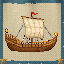
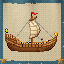
Retake the boat pictures with the new sails

Changed region(s): [[0.25, 0.25, 0.8125, 0.6562], [0.8125, 0.5938, 0.8438, 0.625], [0.7188, 0.6875, 0.75, 0.7188]]

diff --git a/tools/art/turn_sails.py b/tools/art/turn_sails.py
@@ -1,14 +1,16 @@
-"""Turns a sailing boat's square sail from facing us to set across the hull, as a sail running before the wind is.
-Seen from the side it is turned well away from us: a narrow sheet hanging from a short yard angled towards the bow, its
-belly filled and bulging out towards the bow, the way the boat goes. The old sail, its yards and the ropes tied to them
-are cleared from the boat's picture as make_props.py and round_keels.py left it (kept in props_raw as
-<boat>_square_sail.png the first time), keeping the hull, the mast and its flag, and the new sail is drawn pixel by
-pixel in the old sail's own colours: the cloth shaded by how it faces the light from the upper left, its reinforcing
-bands following the curve of the cloth, the yard in the old yard's colours and the ropes drawn again to the masthead,
-the yard and the sail's lower corners. A flag painted streaming aft is turned round its masthead to stream towards the
-bow, as the wind behind the sail blows it. Prints the sail's corners for boats.json, the box the sail shader moves. Writes
-the boats to game/assets/art/props/; running it again gives the same pictures.
-Usage: python tools/art/turn_sails.py [--out DIR] [BOAT...]"""
+"""Turns a sailing boat's square sail from facing us to set across the hull, as a sail running before the wind is. Seen
+from the side it is turned well away from us: a narrow sheet hanging from a short yard angled towards the bow, its belly
+filled and bulging out towards the bow, the way the boat goes. The old sail, its yards and the ropes tied to them are
+cleared from the boat's picture as make_props.py and round_keels.py left it (kept in props_raw as <boat>_square_sail.png
+the first time), keeping the hull, the mast and its flag, and the new sail is drawn pixel by pixel in the old sail's own
+colours: the cloth shaded by how it faces the light from the upper left, its reinforcing bands following the curve of
+the cloth, the yard in the old yard's colours and the ropes drawn again to the masthead, the yard and the sail's lower
+corners. A flag painted streaming aft is turned round its masthead to stream towards the bow, as the wind behind the
+sail blows it. Prints the sail's corners for boats.json, the box the sail shader moves. Writes the boats to
+game/assets/art/props/; running it again gives the same pictures. With --icons it turns the two boats' achievement
+icons, painted small in tools/art/achievements_raw/ (their originals kept there as <boat>_square_sail.png), in the same
+way at their own size, for make_achievement_icons.py.
+Usage: python tools/art/turn_sails.py [--icons] [--out DIR] [BOAT...]"""
 import math
 import shutil
 import sys
@@ -19,6 +21,7 @@ from PIL import Image, ImageDraw
 
 ROOT = Path(__file__).resolve().parents[2]
 RAW = Path(__file__).with_name("props_raw")
+ICON_RAW = Path(__file__).with_name("achievements_raw")
 PROPS = ROOT / "game" / "assets" / "art" / "props"
 # The light, from the upper left and in front: x towards the bow, y up, z towards us.
 LIGHT = np.array([-0.62, 0.55, 0.56])
@@ -27,13 +30,14 @@ SS = 4
 
 # Per boat, from its old sail's own pixels: the cloth from lit to shaded, its bands and edges from light to dark, the
 # yard from its top row down and its ends, and a rope's shades, a rope `wide` being drawn three pixels across, dark,
-# light and dark. Then the mast's columns, the rows of it drawn again in the colours of a row it shows bare (`mast_rows`:
-# the first and the bare one), and the row its yard crosses it; the sail's width and height as if laid flat, how far it
-# is turned from pointing straight at us, how much lower its near end sits for every pixel nearer us, and how deep its
-# belly is; the cells of its bands across and down. What is cleared: either every column down to its solid run up from
-# the keel, with the boxes in `keep` kept, or the polygons in `clear` and the ropes inside the boxes in `clear_ropes`.
-# Last the ropes, each from a pixel of the hull to a point on the mast, a yardarm or a lower corner of the sail, and a
-# flag to turn round: its top and bottom rows and the first and last columns of the masthead it flies from.
+# light and dark. Then the mast's columns, the rows of it drawn again in the colours of a row it shows bare
+# (`mast_rows`: the first and the bare one), and the row its yard crosses it; the sail's width and height as if laid
+# flat, how far it is turned from pointing straight at us, how much lower its near end sits for every pixel nearer us,
+# and how deep its belly is; the cells of its bands across and down. What is cleared: either every column down to its
+# solid run up from the keel, with the boxes in `keep` kept, or the polygons in `clear` and the ropes inside the boxes
+# in `clear_ropes`. Last the ropes, each from a pixel of the hull to a point on the mast, a yardarm or a lower corner of
+# the sail, and a flag to turn round: its top and bottom rows and the first and last columns of the masthead it flies
+# from.
 BOATS = {
     "sailing_boat": {
         "cloth": [(238, 219, 192), (231, 209, 177), (221, 199, 162), (213, 190, 152), (205, 180, 142),
@@ -61,6 +65,37 @@ BOATS = {
         "ropes": [((41, 59), "mast", (68, 14)), ((102, 58), "mast", (75, 15)), ((108, 54), "mast", (91, 40)),
                   ((57, 70), "near_clew", None), ((88, 62), "far_clew", None)],
         "flag": (0, 4, 70, 73),
+    },
+}
+
+
+# The icons' boats are about half the game's size, so each sail is too, with fewer bands and thinner ropes.
+ICONS = {
+    "sailing_boat": {
+        "cloth": [(229, 199, 157), (224, 193, 149), (214, 179, 135), (203, 166, 121), (192, 153, 110)],
+        "band": [(192, 153, 110), (184, 143, 100), (173, 130, 90), (159, 114, 80), (144, 84, 56)],
+        "yard": [(141, 65, 40), (103, 47, 34)], "yard_end": (81, 37, 28),
+        "rope": [(159, 114, 80), (173, 130, 90)], "wide": False,
+        "mast": (28, 29), "mast_rows": (5, 15), "cross": 9.0,
+        "width": 35.0, "height": 16.0, "turn": 14.0, "tilt": 0.12, "belly": 9.0, "cells": (3, 4),
+        "clear": [[(6, 4), (27, 4), (27, 30), (13, 30), (13, 29), (6, 29)],
+                  [(30, 5), (48, 5), (48, 21), (46, 21), (46, 29), (44, 29), (44, 30), (30, 30)]],
+        "clear_ropes": [],
+        "ropes": [((18, 30), "mast", (27, 5)), ((11, 29), "near_arm", None), ((26, 30), "near_clew", None),
+                  ((38, 30), "far_clew", None)],
+    },
+    "big_boat": {
+        "cloth": [(249, 230, 191), (236, 213, 171), (221, 198, 153), (204, 178, 130), (190, 163, 119)],
+        "band": [(190, 163, 119), (178, 140, 92), (153, 124, 85), (126, 92, 54), (108, 58, 25)],
+        "yard": [(177, 111, 46), (108, 58, 25)], "yard_end": (68, 27, 7),
+        "rope": [(135, 131, 134), (164, 167, 175)], "wide": False,
+        "mast": (28, 29), "mast_rows": (5, 29), "cross": 8.0,
+        "width": 30.0, "height": 16.0, "turn": 14.0, "tilt": 0.12, "belly": 8.0, "cells": (3, 4),
+        "clear": [[(17, 5), (44, 5), (44, 26), (17, 26)], [(19, 27), (27, 27), (27, 30), (19, 30)],
+                  [(30, 27), (37, 27), (37, 30), (30, 30)]],
+        "clear_ropes": [(12, 5, 50, 30)],
+        "ropes": [((14, 24), "mast", (27, 7)), ((48, 25), "mast", (30, 7)), ((25, 30), "near_clew", None),
+                  ((39, 30), "far_clew", None)],
     },
 }
 
@@ -206,11 +241,11 @@ def line(a, b) -> list:
     return pts
 
 
-def turn(boat: str, out_dir: Path) -> dict:
-    spec = BOATS[boat]
-    raw = RAW / f"{boat}_square_sail.png"
+def turn(boat: str, out_dir: Path, icon: bool = False) -> dict:
+    spec, folder = (ICONS[boat], ICON_RAW) if icon else (BOATS[boat], RAW)
+    raw = folder / f"{boat}_square_sail.png"
     if not raw.exists():
-        shutil.copyfile(PROPS / f"{boat}.png", raw)
+        shutil.copyfile((ICON_RAW if icon else PROPS) / f"{boat}.png", raw)
     old = np.array(Image.open(raw).convert("RGBA"))
     h, w = old.shape[:2]
     pic = np.where(kept_part(old, spec)[:, :, None], old, 0).astype(np.uint8)
@@ -333,13 +368,15 @@ def corners(cloth: np.ndarray, near, far, mx: float) -> list:
 
 def main() -> None:
     args = sys.argv[1:]
-    out_dir = PROPS
+    icon = "--icons" in args
+    args = [a for a in args if a != "--icons"]
+    out_dir = ICON_RAW if icon else PROPS
     if "--out" in args:
         i = args.index("--out")
         out_dir = Path(args[i + 1])
         del args[i:i + 2]
     for boat in args or list(BOATS):
-        print(boat, turn(boat, out_dir))
+        print(boat, turn(boat, out_dir, icon))
 
 
 if __name__ == "__main__":

diff --git a/tools/phone/make_store_art.py b/tools/phone/make_store_art.py
@@ -60,7 +60,6 @@ SCENES = {
 }
 PHONE_ORDER = ["the_harbour_at_sunset", "a_dentex_on_the_line", "the_catch_banner", "the_harbour_town",
                "the_pond_at_home", "capri_under_sail", "rain_on_lake_lucrine", "northern_lights_over_the_harbour"]
-TABLET_ORDER = ["the_harbour_at_sunset", "a_dentex_on_the_line", "the_harbour_town", "the_pond_at_home"]
 # An iPad's squarer screen shows deep, empty water under Capri, so the lake in the rain takes its place.
 IPAD_ORDER = ["the_harbour_at_sunset", "a_dentex_on_the_line", "the_harbour_town", "the_pond_at_home",
               "rain_on_lake_lucrine", "northern_lights_over_the_harbour"]
@@ -70,8 +69,8 @@ WIDEST_POND = ["--seed=1", "--pond-fish=5"]
 # folder: (window size, scenes in upload order, extra flags per scene for that screen's shape).
 SETS = {
     PLAY / "phone_screenshots": ((1920, 1080), PHONE_ORDER, {}),
-    PLAY / "tablet_7_inch_screenshots": ((1920, 1080), TABLET_ORDER, {}),
-    PLAY / "tablet_10_inch_screenshots": ((2560, 1440), TABLET_ORDER, {"the_pond_at_home": WIDE_POND}),
+    PLAY / "tablet_7_inch_screenshots": ((1920, 1080), PHONE_ORDER, {}),
+    PLAY / "tablet_10_inch_screenshots": ((2560, 1440), PHONE_ORDER, {"the_pond_at_home": WIDE_POND}),
     APPLE / "iphone_6.9_inch_screenshots": ((2868, 1320), PHONE_ORDER, {"the_pond_at_home": WIDEST_POND}),
     APPLE / "ipad_13_inch_screenshots": ((2752, 2064), IPAD_ORDER, {}),
 }

diff --git a/tools/steam/make_store_art.py b/tools/steam/make_store_art.py
@@ -155,7 +155,7 @@ def make_screenshots():
             # The strip is laid along the bottom of a desktop, above its taskbar, as it sits on a player's screen.
             from make_trailer import desktop_frame
             with tempfile.TemporaryDirectory() as tmp:
-                desk, taskbar = desktop_frame(Path(tmp) / "desktop.png")
+                desk, taskbar = desktop_frame((1920, 1080), Path(tmp) / "desktop.png")
                 picture = Image.open(desk).convert("RGBA")
             strip = frame.convert("RGBA")
             picture.alpha_composite(strip, ((picture.width - strip.width) // 2, picture.height - taskbar - strip.height))

diff --git a/CLAUDE.md b/CLAUDE.md
@@ -12,7 +12,7 @@ A cozy Roman fishing game in Godot 4.7 (GDScript, 2D, GL Compatibility), set on 
 - `game/scripts/ui/`: `UiTheme` (pixel fonts and the painted panels and buttons in `assets/art/ui/`), `Ui` (helpers; money is always `Ui.coins_text`; `Ui.window` for panels; `Ui.tile` and `Ui.price_tile` are picture buttons with a tip, which the shops, the tackle and the boat's bar are made of; `Ui.speech` is Farmus's speech bubble over someone's head, which the townsfolk talk in), `Units` (every weight is kept in pounds and shown through `Units.weight`, or `Units.need` for a weight asked for or suited, rounded as a person would say it, in kilograms or pounds by the settings; a client's words in `clients.json` write `{weight}` for the weight asked for, filled by `Units.fill`), `ItemArt` (the picture of a bait, gear, help, a way of fishing, a boat or a fish), `Hud` (the ways of fishing as pictures along the bottom, after the bay map's picture that the coast hangs in the corner; clicking the line opens the tackle just above it; the logbook, settings and menu are pictures in the top right corner), `Toast`, `CatchCard` (the banner hung out when a fish is landed, from `assets/art/ui/banner_*.png`: undyed linen hung by rope ties from a plain wooden pole, a sea blue stripe painted round it, the fish's name painted in ink (`ink.gdshader`) over a larger picture of the fish from `assets/art/fish_banner/` (`CatchCard.picture_of`; the logbook, the shops and the sea keep the small ones, so the player learns one look for each fish), its weight and grade, and a little ochre starfish in its lower corners when it is new to the logbook or a legend; it is drawn in game pixels, not interface pixels, so its texels match the scene's at every interface size; it drops in, unfurls from a rolled cloth, hangs for `SHOWN` seconds with its frayed foot swaying by whole texels (`banner_sway.gdshader`) and rolls up again; in the desktop strip the catch is one line of `Toast` instead), `HoldChoice`, `LogbookPanel` (an open book with a bookmark for each place, the legends and the achievements, one spread listing those earned (an ochre starfish) down the left page and those still to earn (its faint shape) down the right, each with what it asks and each page scrolling on its own (`open_achievements()`, `--panel=achievements`); its pages turned by `PageTurn`: the pages as they are pictured offscreen at the interface's scale, the new spread laid out underneath, and one leaf mesh drawn in a single call carrying the old page over with the new one on its back, its free edge leading as it rises and trailing as it falls; a click during a turn is kept and turned as soon as the leaf lands; `--panel=logbook` or `--panel=achievements` with `--turn-at=S` turns to the next section for checks, `--turn-back` the other way), `SettingsPanel` (four tabs, Sound, Display, Gameplay and Keys, as in the other two games, each row with one On, Off or choice button on the right: `Ui.setting`, `Ui.on_off`, `Ui.tab_row`), `AchievementCard` (slides in from the right in the bottom right corner, above the buttons there, and stays five seconds unless clicked away; several earned at once take turns, and none slides in while a catch banner is hung out or a window is open, waiting until it closes), `TacklePanel` (the bait on the hook and the rod in hand, each with a tip naming the fish here it suits, a bait's with when and where each keeps to (`Catalog.habits`: at night, by day, at dawn or dusk, deep down or near the surface), which the logbook's page for a fish says too; a rod suits the fish sizes in its `best` range in `gear.json`, and `Bite.rod_fit` makes smaller fish shy of it), `GuideNote` (old Rufus in the top right corner with the lesson for the coast or the town, an arrow at what to click from the screen's `guide_target(id)`, Got it and Skip the guide; the settings turn him back on), `Controls` (keys and controller; each action's own key can be changed on the settings' Keys tab, the arrow keys and the controller's buttons working beside it; while `Pad.active` the controller's buttons are pictured beside the hints: `Controls.glyph(action)` from `assets/art/ui/pad/`, drawn by `tools/art/make_pad_glyphs.py`, in old Rufus's lessons through `fill_pad()` in a `RichTextLabel`, on the line, net and Fish on his own buttons (`Hud._badge`) and beside each key on the Keys tab), `Pixels` (lines, rings, discs and polygons drawn as whole game pixels, and `look()`, the shader that keeps a scaled or turned picture's pixels whole), `Touch` (the phone's touch decisions as pure functions, tested headless: a hold or a tap, the back gesture's step, a finger on the water reeling in or setting the bait's depth, a window lifted above the keyboard, a target grown to a fingertip), `FingerPress` and `touch_scroll.gd` (a finger dragging any list, from Farmus Maximus; `Ui.touch_scroll`).
 - `game/tests/`: `run_tests.gd` runs every `test_*` method in every `test_*.gd`, in English whatever the computer's language; a test that raises an engine error fails. `pacing_bot.gd` and `flow_bot.gd` are the bots.
 - `game/translations/strings.csv`: every player-facing string, one column per language (English plus French, German, Spanish, Italian, Brazilian Portuguese, Polish, Turkish, Russian, Ukrainian, Japanese, Korean, and Simplified and Traditional Chinese), as in Mosaicus Maximus and Farmus Maximus. `python tools/extract_strings.py` rebuilds it, keeping existing translations: it collects `tr()`, `TranslationServer.translate()` and `say()` strings (`Toast.say` and `Ui.say`), every literal that reads like words, the shown fields of `data/*.json` (`name`, `short`, `lower`, `where`, `title`, `text`, `thanks`, `clue`, `lines`, `praise`, `farewell`; not a place's `text`, the townsfolk's names or the credits), the names as they read inside a sentence (`Data.lower_key`), and the seasons, weather and grades. `python tools/translate_strings.py` fills empty cells with Azure AI Translator (key `AZURE_TRANSLATOR_KEY` in `.env`; `--dry-run` shows what is missing), then `--headless --path game --import` turns each column into a `.translation` file. Rows the other two games share (the settings, On and Off, Delete, the dogs' coats) were copied from their reviewed sheets, and every language was then reviewed line by line against the code that shows it, from one glossary: each fish its language's real common name for the species pictured, Roman names in Latin spelling in Latin letters and one transliteration in Cyrillic and Chinese, Japanese and Korean. Azure gets short words wrong without context (the hold as a verb, pots as cooking pots, Settings as scenery, Quit as resigning), so new strings need the same review.
-- `tools/art/`: `pixellab.py` (the token is in `.env`, never in code; every picture's cost goes in `ledger.csv`; `inpaint --tile WxH` sends tiles at least that size, so a thin area is painted seeing the picture round it, and its tiles start on multiples of 4, so an area should too), `make_places.py` with the specs written by `places/_write_specs.py` (land with a `style` picture is painted to match it, as the harbour's cape and the rocky shore are to `places/style_land.png`, a piece of the harbour town, and the harbour's hills and mountains, Lucrine's shores and Capri's cliffs are to the cape itself; a `tone` then brings every row of land into the cape's colours with `tone_land.py`, its greens to the cape's olive scrub and dark pines and its rock to the cape's limestone, with a little haze the farther back it lies, so all the land shares one look; land painted running off its picture's top gets 32 rows of sky added and its summit painted on (`raise_top`), the picture placed that much higher through `parts/<place>/<name>.pads.json`, which goes with the picture's marks when it is painted again; a `mend` then paints a part that came out in pieces again: its `clear` boxes emptied, its `ground` boxes filled solid with a foot of boulders and inpainted, the plain white PixelLab leaves where it saw sky cleared with any paint that would hang over it, and the new paint's colours moved onto the land round it, as the open bay's harbour, painted with its water and cut to pieces by the clear background, has had), `make_front.py` (the dark plants in front of the view, painted in the cape's style, cut to run off the edge they stand on and darkened to near silhouettes; Roman plants only, so a dwarf fan palm rather than an agave; a plant standing up from below grows out of a bank drawn into its own picture, so the two break away together: a rounded grassy crown just above the water over a rock face cut from `places/parts/front/bank_rock.png`, its sides broken by ledges and hollows and its part under the water drawn toward the sea's dark colour, no wider than the plant's foot needs), `make_harbour_town.py` (the harbour's row of town, its lighthouse shortened rather than cut so the row still slopes to the sea, and the near-black lines round its houses softened with `soften_outlines.soften_lines`), `make_fish.py`, `make_props.py` (boats, pots, net, lamp, dolphin, jetty; the rowing boats are painted to match a style picture so no oar comes back, and the jetty to match the harbour town), `round_keels.py` (rounds the sailing boats' keels, deepest amidships and curving gently along the hull, then more steeply near bow and stern, so every boat sits in the water along most of its length; a column is deepened by repeating the plank rows above its keel; the big boat, whose high stern overhangs, also names a deeper `draft` in `boats.json` than `BoatView.DRAFT`), `turn_sails.py` (turns the sailing boat's and the big boat's square sails from facing us to set across the hull, as a sail running before the wind is: from the picture `round_keels.py` left, kept as `props_raw/<boat>_square_sail.png`, the old sail, its yards and their ropes are cleared and a narrow sheet hanging from a short yard angled towards the bow is drawn pixel by pixel in the old sail's colours, its belly bulging towards the bow, its bands following the cloth and its cloth covering the mast, with the ropes drawn again to the masthead, the yard and the sail's lower corners, and the big boat's flag, painted streaming aft, turned round its masthead to stream towards the bow; it prints each sail's corners for `boats.json`), `shape_boats.py` (the rowing boats from their paintings in `props_raw/<boat>_painted.png`: the hull thickened along its whole length by doubling plank rows, the keel rounded gently so the ends stay full, the bow raised two pixels), `make_items.py` (the pictures in `assets/art/items/` of everything for sale, the help for hire, the ways of fishing, and the boat's own buttons: a bay map half unrolled, a leather logbook, a bronze cog for the settings and an arched doorway for the menu; `SIZES` paints the small ones at the size they are shown and `DARKEN` darkens one that fades into its pale tile), `make_fisherman.py` (the fisherman's seated pose, rowing stroke and cast from his PixelLab character, with where his hands are in every frame), `make_rest_pose.py` (his seated pose with the rod laid down, the raised forearm redrawn lying along his thigh with the hand on his knee), `soften_outlines.py` (turns a sprite's near-black outline into a darker shade of the colour inside it; run it on anything new; `--lines` also softens the near-black lines drawn inside a picture, such as round the harbour town's houses, leaving windows and doorways dark; `--marks` also softens short dark dashes and near-black browns, for a picture with no windows, as the big boat has had three times), `clear_sky.py` (takes painted clouds and sky out of a row of land so the game's drifting sky shows there; `clear_painted` does it for a whole scene by the sky's own colours above its horizon), `widen.py` (paints a screen's picture on past its edges with PixelLab, its frame a corner at a time in 256 pixel tiles, so a window of another shape shows more of the place; four tiles reach 512 by 512), `mute_colours.py` (tones down an over-bright sprite), `make_icon.py` (the exe and taskbar icon: the game's gilt-head bream leaping clear of the sea at sunset on a rounded tile with a dark rim, drawn at 64 pixels so it reads at the taskbar's small sizes, the big sizes whole multiples of it and the small ones averaged down; it also writes the marketing profile picture), `make_town.py` (the street, its buildings painted into it, the street widened 16 pixels past each side and 33 above and below, parts that came out wrong painted again (`MENDS`: the stone pillar, the boatwright's roof, the goldsmith and the wall behind its roof's peak, and last the goldsmith again as a stall along the wall, `goldsmith_stall`, painted once the right of the street is cleared: the board and the goldsmith as first painted and the hall's right post taken out (`CLEAR`), each band of what stood behind the post carried across from beside it (`POST_FILL`: sky, the house's roof and wall, the coping two tiles along, the wall), the stone pillar's courses carried down to its foot (`PILLAR`, `COURSES`) and its side face then drawn again in the street's perspective, each joint and its foot running to `VANISH` so they rise towards it below eye level (`pillar_in_perspective`, `PILLAR_FRONT`, `PILLAR_SLOPE`), with the paving laid again where the foot rose, and the paving there laid again from the street's own slabs four joints to its left, each row moved along the paving's perspective (`VANISH`, `JOINT`) so the joints and light carry on from the slabs beside it; the cleared street is kept in `town_clear.png`), then any wall or paving painted inside a building's outline given back to the street so each ends at its own edges, the fish market's right column, which its painting box cut short, finished with its left column's outer edge turned round (`COLUMN_EDGE`), the goldsmith's first lantern (kept in `lantern.png`) hung on an iron arm on the hall's left post (`LANTERN_AT`), the harbour board, painted facing us with Pro Flash in the street's style (`board_front_raw.png`), trimmed to clean feet and eaves (`trim_board`) and stood on the paving centred in front of the hall's left post with its shadow along the line between its feet (`BOARD_AT`, `BOARD_SHADOW`); the fish market's outline goes round it where it stands in front of the market's column, the sky cleared above the wall, and each building cut out along the outline traced round it in `SILHOUETTES`, which the mouse and the gold outline both go by), `make_catch_banner.py` (the catch banner drawn pixel by pixel at the size it is shown, without PixelLab: the linen's weave, slubs and folds dithered in a few shades, the painted stripe, the frayed foot, the pole with its grain, the rope ties and the starfish; cut into the parts the game moves apart), `make_banner_fish.py` (the banner's larger fish: each small picture from `assets/art/fish/` blown up with whole pixels to the size the banner gives it, twice as large, four times for the tiniest, or as large as the cloth has room for under its name; a tiny fish is then redrawn there by PixelLab's edit twice over (`paint`, `more` edits the latest try again), and a larger one, whose doubled pixels an edit keeps, is painted afresh by Pro Flash styled on the blown up picture (`flash`, on a canvas never larger than the cloth's room; `SHAPES` adds words where a first painting changed the fish's shape); `build` writes the chosen try (`PICK`), moving its colours back to the small picture's where they drifted (`RECOLOUR`) and softening any dark outline; every try is kept in `fish_banner_raw/`, and a fish in `KEEP` stays the small picture enlarged with a fine dither, since every painting of it ran off its canvas, came out too small or lost a fin; check each by eye against its small picture), `make_portraits.py` (the clients' faces for their visits, each painted to match the person's own figure in the street), `make_people.py` (the townsfolk and clients in the street, each a PixelLab character in the Farmus dog's style with an eight-frame walk; check each by eye for dark outlines), `make_estate.py` (the estate's pond screen: the far bank laid together from pieces painted in the cape's style in `estate_parts/`, the villa, the garum works and a rise standing behind one stone wall painted once and joined onto itself (its cut ends rolled to the middle, covered with the stretch of wall whose ends best match and the joins inpainted with the whole strip as the tile and no wider context), the garum works' own pixels saved as `garum_mask.png`, the pond-sized rocks and den, and the beach's sand drawn without PixelLab, joining onto itself), `make_channel.py` (the sea channel's arched culvert and sluice gate inpainted into a piece of the bank's wall and cut out as `channel.png`), `make_pond_weed.py` (the harbour's seagrass without the plants cut off at its lower corners, for the pond), `make_seabed.py` (each place's sand strip drawn without PixelLab in its spec's `floor.sand` colour: smooth sand with faint speckle and a lighter top edge, joining onto itself and darkening into the ground; `make_places.py` draws a missing floor with it), `make_jetty.py` (the harbour jetty with its posts carried down past the sea floor, which hides their feet), `set_back.py` (a smaller, hazier copy of a prop's part above the water, to stand further back in a band of far water where the game mirrors it; a spec layer with `set_back` is made by it, as Lucrine's oyster posts are, so the boat passes in front of them), `settle_piece.py` (lays a seabed piece painted on flat sand along a sloping seabed by moving each column down by whole pixels, as the open bay's sunken fishing boat, painted by Pro Flash with the rocky shore's wreck as its style picture, has had; its painting is kept in `places/parts/open_bay/sunken_boat_raw.png`), `break_edges.py` (breaks a long straight slope along the top of a picture of land into rounded bulges and dips; run once on a span: the harbour's cape, Lucrine's and the rocky shore's near rows, and the rocky shore's, the open bay's and Misenum's middle rows have had it; `--rise=N` never dips but lifts the span into a rounded rise, stretching only its top two rows so buildings just under it stay whole, which Capri's middle row has had where its painted summit came out flat), `check_edges.py` (fails any layer whose edge could show as a straight cut, or a row of land whose top fades into the sky; `tiles.txt` lists the exceptions), and `places_json.py`.
+- `tools/art/`: `pixellab.py` (the token is in `.env`, never in code; every picture's cost goes in `ledger.csv`; `inpaint --tile WxH` sends tiles at least that size, so a thin area is painted seeing the picture round it, and its tiles start on multiples of 4, so an area should too), `make_places.py` with the specs written by `places/_write_specs.py` (land with a `style` picture is painted to match it, as the harbour's cape and the rocky shore are to `places/style_land.png`, a piece of the harbour town, and the harbour's hills and mountains, Lucrine's shores and Capri's cliffs are to the cape itself; a `tone` then brings every row of land into the cape's colours with `tone_land.py`, its greens to the cape's olive scrub and dark pines and its rock to the cape's limestone, with a little haze the farther back it lies, so all the land shares one look; land painted running off its picture's top gets 32 rows of sky added and its summit painted on (`raise_top`), the picture placed that much higher through `parts/<place>/<name>.pads.json`, which goes with the picture's marks when it is painted again; a `mend` then paints a part that came out in pieces again: its `clear` boxes emptied, its `ground` boxes filled solid with a foot of boulders and inpainted, the plain white PixelLab leaves where it saw sky cleared with any paint that would hang over it, and the new paint's colours moved onto the land round it, as the open bay's harbour, painted with its water and cut to pieces by the clear background, has had), `make_front.py` (the dark plants in front of the view, painted in the cape's style, cut to run off the edge they stand on and darkened to near silhouettes; Roman plants only, so a dwarf fan palm rather than an agave; a plant standing up from below grows out of a bank drawn into its own picture, so the two break away together: a rounded grassy crown just above the water over a rock face cut from `places/parts/front/bank_rock.png`, its sides broken by ledges and hollows and its part under the water drawn toward the sea's dark colour, no wider than the plant's foot needs), `make_harbour_town.py` (the harbour's row of town, its lighthouse shortened rather than cut so the row still slopes to the sea, and the near-black lines round its houses softened with `soften_outlines.soften_lines`), `make_fish.py`, `make_props.py` (boats, pots, net, lamp, dolphin, jetty; the rowing boats are painted to match a style picture so no oar comes back, and the jetty to match the harbour town), `round_keels.py` (rounds the sailing boats' keels, deepest amidships and curving gently along the hull, then more steeply near bow and stern, so every boat sits in the water along most of its length; a column is deepened by repeating the plank rows above its keel; the big boat, whose high stern overhangs, also names a deeper `draft` in `boats.json` than `BoatView.DRAFT`), `turn_sails.py` (turns the sailing boat's and the big boat's square sails from facing us to set across the hull, as a sail running before the wind is: from the picture `round_keels.py` left, kept as `props_raw/<boat>_square_sail.png`, the old sail, its yards and their ropes are cleared and a narrow sheet hanging from a short yard angled towards the bow is drawn pixel by pixel in the old sail's colours, its belly bulging towards the bow, its bands following the cloth and its cloth covering the mast, with the ropes drawn again to the masthead, the yard and the sail's lower corners, and the big boat's flag, painted streaming aft, turned round its masthead to stream towards the bow; it prints each sail's corners for `boats.json`; `--icons` turns the two boats' achievement icons in `achievements_raw/` the same way at their own size (`ICONS`), keeping their paintings there as `<boat>_square_sail.png`), `shape_boats.py` (the rowing boats from their paintings in `props_raw/<boat>_painted.png`: the hull thickened along its whole length by doubling plank rows, the keel rounded gently so the ends stay full, the bow raised two pixels), `make_items.py` (the pictures in `assets/art/items/` of everything for sale, the help for hire, the ways of fishing, and the boat's own buttons: a bay map half unrolled, a leather logbook, a bronze cog for the settings and an arched doorway for the menu; `SIZES` paints the small ones at the size they are shown and `DARKEN` darkens one that fades into its pale tile), `make_fisherman.py` (the fisherman's seated pose, rowing stroke and cast from his PixelLab character, with where his hands are in every frame), `make_rest_pose.py` (his seated pose with the rod laid down, the raised forearm redrawn lying along his thigh with the hand on his knee), `soften_outlines.py` (turns a sprite's near-black outline into a darker shade of the colour inside it; run it on anything new; `--lines` also softens the near-black lines drawn inside a picture, such as round the harbour town's houses, leaving windows and doorways dark; `--marks` also softens short dark dashes and near-black browns, for a picture with no windows, as the big boat has had three times), `clear_sky.py` (takes painted clouds and sky out of a row of land so the game's drifting sky shows there; `clear_painted` does it for a whole scene by the sky's own colours above its horizon), `widen.py` (paints a screen's picture on past its edges with PixelLab, its frame a corner at a time in 256 pixel tiles, so a window of another shape shows more of the place; four tiles reach 512 by 512), `mute_colours.py` (tones down an over-bright sprite), `make_icon.py` (the exe and taskbar icon: the game's gilt-head bream leaping clear of the sea at sunset on a rounded tile with a dark rim, drawn at 64 pixels so it reads at the taskbar's small sizes, the big sizes whole multiples of it and the small ones averaged down; it also writes the marketing profile picture), `make_town.py` (the street, its buildings painted into it, the street widened 16 pixels past each side and 33 above and below, parts that came out wrong painted again (`MENDS`: the stone pillar, the boatwright's roof, the goldsmith and the wall behind its roof's peak, and last the goldsmith again as a stall along the wall, `goldsmith_stall`, painted once the right of the street is cleared: the board and the goldsmith as first painted and the hall's right post taken out (`CLEAR`), each band of what stood behind the post carried across from beside it (`POST_FILL`: sky, the house's roof and wall, the coping two tiles along, the wall), the stone pillar's courses carried down to its foot (`PILLAR`, `COURSES`) and its side face then drawn again in the street's perspective, each joint and its foot running to `VANISH` so they rise towards it below eye level (`pillar_in_perspective`, `PILLAR_FRONT`, `PILLAR_SLOPE`), with the paving laid again where the foot rose, and the paving there laid again from the street's own slabs four joints to its left, each row moved along the paving's perspective (`VANISH`, `JOINT`) so the joints and light carry on from the slabs beside it; the cleared street is kept in `town_clear.png`), then any wall or paving painted inside a building's outline given back to the street so each ends at its own edges, the fish market's right column, which its painting box cut short, finished with its left column's outer edge turned round (`COLUMN_EDGE`), the goldsmith's first lantern (kept in `lantern.png`) hung on an iron arm on the hall's left post (`LANTERN_AT`), the harbour board, painted facing us with Pro Flash in the street's style (`board_front_raw.png`), trimmed to clean feet and eaves (`trim_board`) and stood on the paving centred in front of the hall's left post with its shadow along the line between its feet (`BOARD_AT`, `BOARD_SHADOW`); the fish market's outline goes round it where it stands in front of the market's column, the sky cleared above the wall, and each building cut out along the outline traced round it in `SILHOUETTES`, which the mouse and the gold outline both go by), `make_catch_banner.py` (the catch banner drawn pixel by pixel at the size it is shown, without PixelLab: the linen's weave, slubs and folds dithered in a few shades, the painted stripe, the frayed foot, the pole with its grain, the rope ties and the starfish; cut into the parts the game moves apart), `make_banner_fish.py` (the banner's larger fish: each small picture from `assets/art/fish/` blown up with whole pixels to the size the banner gives it, twice as large, four times for the tiniest, or as large as the cloth has room for under its name; a tiny fish is then redrawn there by PixelLab's edit twice over (`paint`, `more` edits the latest try again), and a larger one, whose doubled pixels an edit keeps, is painted afresh by Pro Flash styled on the blown up picture (`flash`, on a canvas never larger than the cloth's room; `SHAPES` adds words where a first painting changed the fish's shape); `build` writes the chosen try (`PICK`), moving its colours back to the small picture's where they drifted (`RECOLOUR`) and softening any dark outline; every try is kept in `fish_banner_raw/`, and a fish in `KEEP` stays the small picture enlarged with a fine dither, since every painting of it ran off its canvas, came out too small or lost a fin; check each by eye against its small picture), `make_portraits.py` (the clients' faces for their visits, each painted to match the person's own figure in the street), `make_people.py` (the townsfolk and clients in the street, each a PixelLab character in the Farmus dog's style with an eight-frame walk; check each by eye for dark outlines), `make_estate.py` (the estate's pond screen: the far bank laid together from pieces painted in the cape's style in `estate_parts/`, the villa, the garum works and a rise standing behind one stone wall painted once and joined onto itself (its cut ends rolled to the middle, covered with the stretch of wall whose ends best match and the joins inpainted with the whole strip as the tile and no wider context), the garum works' own pixels saved as `garum_mask.png`, the pond-sized rocks and den, and the beach's sand drawn without PixelLab, joining onto itself), `make_channel.py` (the sea channel's arched culvert and sluice gate inpainted into a piece of the bank's wall and cut out as `channel.png`), `make_pond_weed.py` (the harbour's seagrass without the plants cut off at its lower corners, for the pond), `make_seabed.py` (each place's sand strip drawn without PixelLab in its spec's `floor.sand` colour: smooth sand with faint speckle and a lighter top edge, joining onto itself and darkening into the ground; `make_places.py` draws a missing floor with it), `make_jetty.py` (the harbour jetty with its posts carried down past the sea floor, which hides their feet), `set_back.py` (a smaller, hazier copy of a prop's part above the water, to stand further back in a band of far water where the game mirrors it; a spec layer with `set_back` is made by it, as Lucrine's oyster posts are, so the boat passes in front of them), `settle_piece.py` (lays a seabed piece painted on flat sand along a sloping seabed by moving each column down by whole pixels, as the open bay's sunken fishing boat, painted by Pro Flash with the rocky shore's wreck as its style picture, has had; its painting is kept in `places/parts/open_bay/sunken_boat_raw.png`), `break_edges.py` (breaks a long straight slope along the top of a picture of land into rounded bulges and dips; run once on a span: the harbour's cape, Lucrine's and the rocky shore's near rows, and the rocky shore's, the open bay's and Misenum's middle rows have had it; `--rise=N` never dips but lifts the span into a rounded rise, stretching only its top two rows so buildings just under it stay whole, which Capri's middle row has had where its painted summit came out flat), `check_edges.py` (fails any layer whose edge could show as a straight cut, or a row of land whose top fades into the sky; `tiles.txt` lists the exceptions), and `places_json.py`.
 - `marketing/`: pictures for outside the game, as Mosaicus Maximus has: `profile_picture.png`, the icon's 64 pixel tile at 16 times its size, written by `make_icon.py`, and `youtube_banner.png`, written by `tools/trailer/make_banner.py` from the harbour at sunset the game renders 1280 game pixels wide at twice its size (`--no-hud --no-front`), placed so the strip every screen shows holds the logo, the cape and the boat, the sky carried up into the dusk and the sea darkened into the deep for televisions. The logo is `tools/trailer/logo.png`, drawn by `make_logo.py` in Cinzel (`Cinzel-OFL.txt` beside it) in the same lettering as Farmus Maximus's and Mosaicus Maximus's, with `logo_plain.png` (the name without the laurel), `scroll.png` (the end card's wishlist scroll), `compact_name()` (the name in smaller letters, for the small capsule) and the boot splash, `game/assets/art/ui/boot_splash.png` (the logo at three window pixels to its pixel, shown unfiltered at its own size on the clear colour the title's first frame shows, set in `project.godot`, so every preset starts with it and nothing flashes). `desktop.png` is Farmus Maximus's desktop screenshot with the Fishus Maximus icon on its desktop and taskbar, which the strip is laid over in the trailer and the store screenshot. The game's own `icon.png` and `icon.ico` stay in `game/`, where the project and the export read them.
 - `tools/audio/cut_sounds.py` cuts the sea sounds from the CC0 recordings in `tools/audio/recordings/`.
 - `tools/art/make_achievement_icons.py`: the Steam achievement icons in `store/achievements/`, as Mosaicus Maximus and Farmus Maximus have: each a 64 pixel square of the catch banner's linen with its sea blue stripe and its ochre starfish in the lower corners, holding a fish, item or portrait at a whole-number size, or a window onto a place the game renders (`SCENES`); the legends and boats too big for it at their own size were painted small with PixelLab into `tools/art/achievements_raw/`. `docs/Steam-setup.md` has the Steamworks steps and the achievement table. A new achievement needs an entry in `data/achievements.json` (one condition key, read by `Achievements.met`), a picture in the icon script's `ART`, and a row in `docs/Steam-setup.md`.
